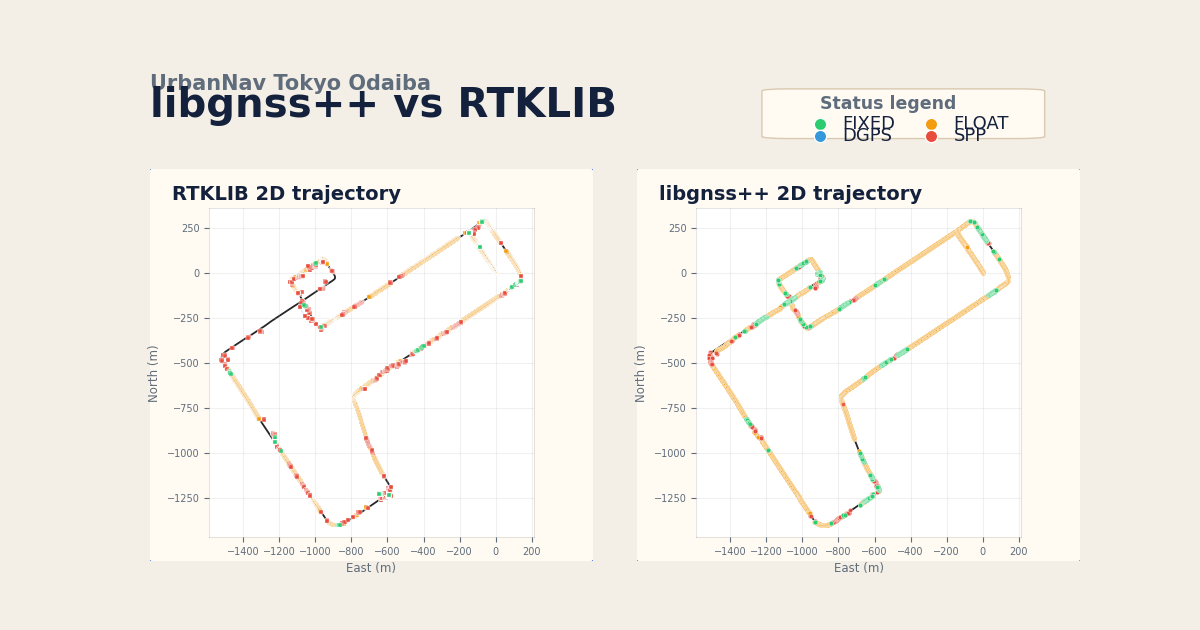
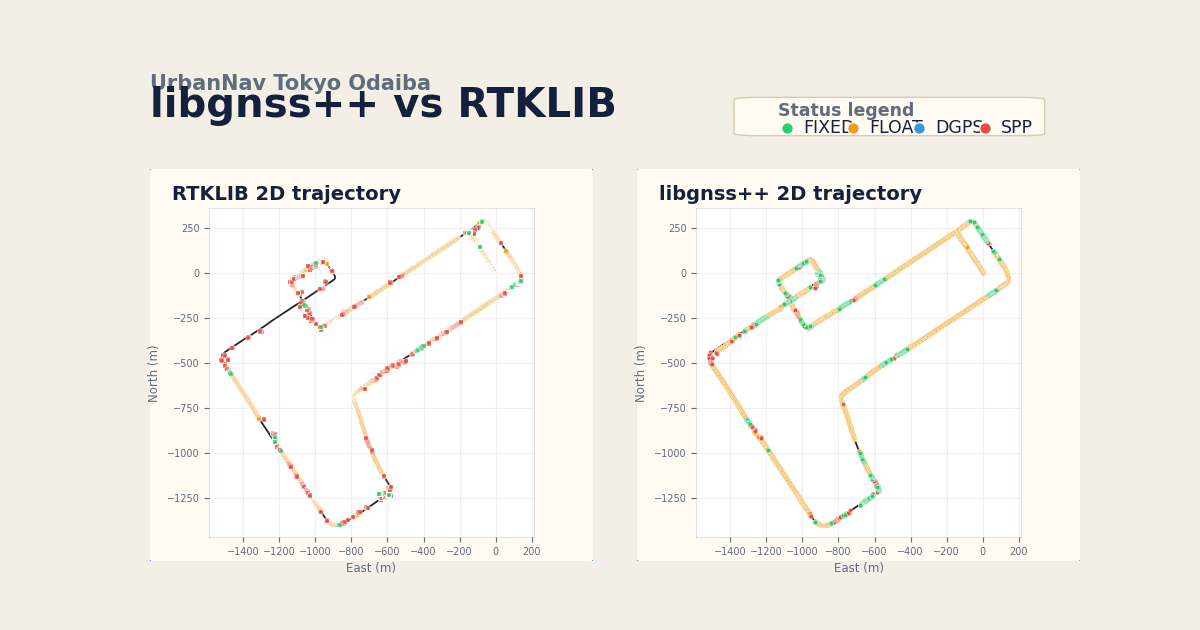
Refine Odaiba social card legend layout

Changed region(s): [[0.6167, 0.1206, 0.8633, 0.2413]]

diff --git a/scripts/generate_odaiba_social_card.py b/scripts/generate_odaiba_social_card.py
@@ -32,10 +32,10 @@ PANEL = "#fffaf2"
 def draw_status_legend(ax) -> None:
     from matplotlib.patches import FancyBboxPatch
 
-    box_x = 0.67
-    box_y = 0.12
-    box_w = 0.28
-    box_h = 0.68
+    box_x = 0.64
+    box_y = 0.16
+    box_w = 0.31
+    box_h = 0.52
     panel = FancyBboxPatch(
         (box_x, box_y),
         box_w,
@@ -48,29 +48,29 @@ def draw_status_legend(ax) -> None:
     )
     ax.add_patch(panel)
 
-    legend_x = box_x + 0.05
-    label_x = legend_x + 0.024
-    top_y = box_y + 0.20
-    row_gap = 0.17
-    col_gap = 0.12
-
-    ax.text(legend_x, box_y + box_h - 0.07, "Status legend", fontsize=12.5, color=MUTED, weight="bold", va="top")
+    ax.text(
+        box_x + 0.035,
+        box_y + box_h - 0.06,
+        "Status legend",
+        fontsize=12.5,
+        color=MUTED,
+        weight="bold",
+        va="top",
+    )
 
     for index, status_name in enumerate(STATUS_ORDER):
-        row = index // 2
-        col = index % 2
-        x = legend_x + col * col_gap
-        y = top_y - row * row_gap
+        x = box_x + 0.045 + index * 0.071
+        y = box_y + 0.10
         ax.scatter(
             [x],
             [y],
-            s=78,
+            s=70,
             color=STATUS_STYLES[status_name],
             edgecolors="white",
             linewidths=0.9,
             zorder=3,
         )
-        ax.text(label_x + col * col_gap, y, status_name, fontsize=13, color=TEXT, va="center")
+        ax.text(x + 0.017, y, status_name, fontsize=12.5, color=TEXT, va="center")
 
 
 def draw_trajectory_panel(ax, title: str, reference_xy, matched, solver: str, edge_color: str, limits) -> None: